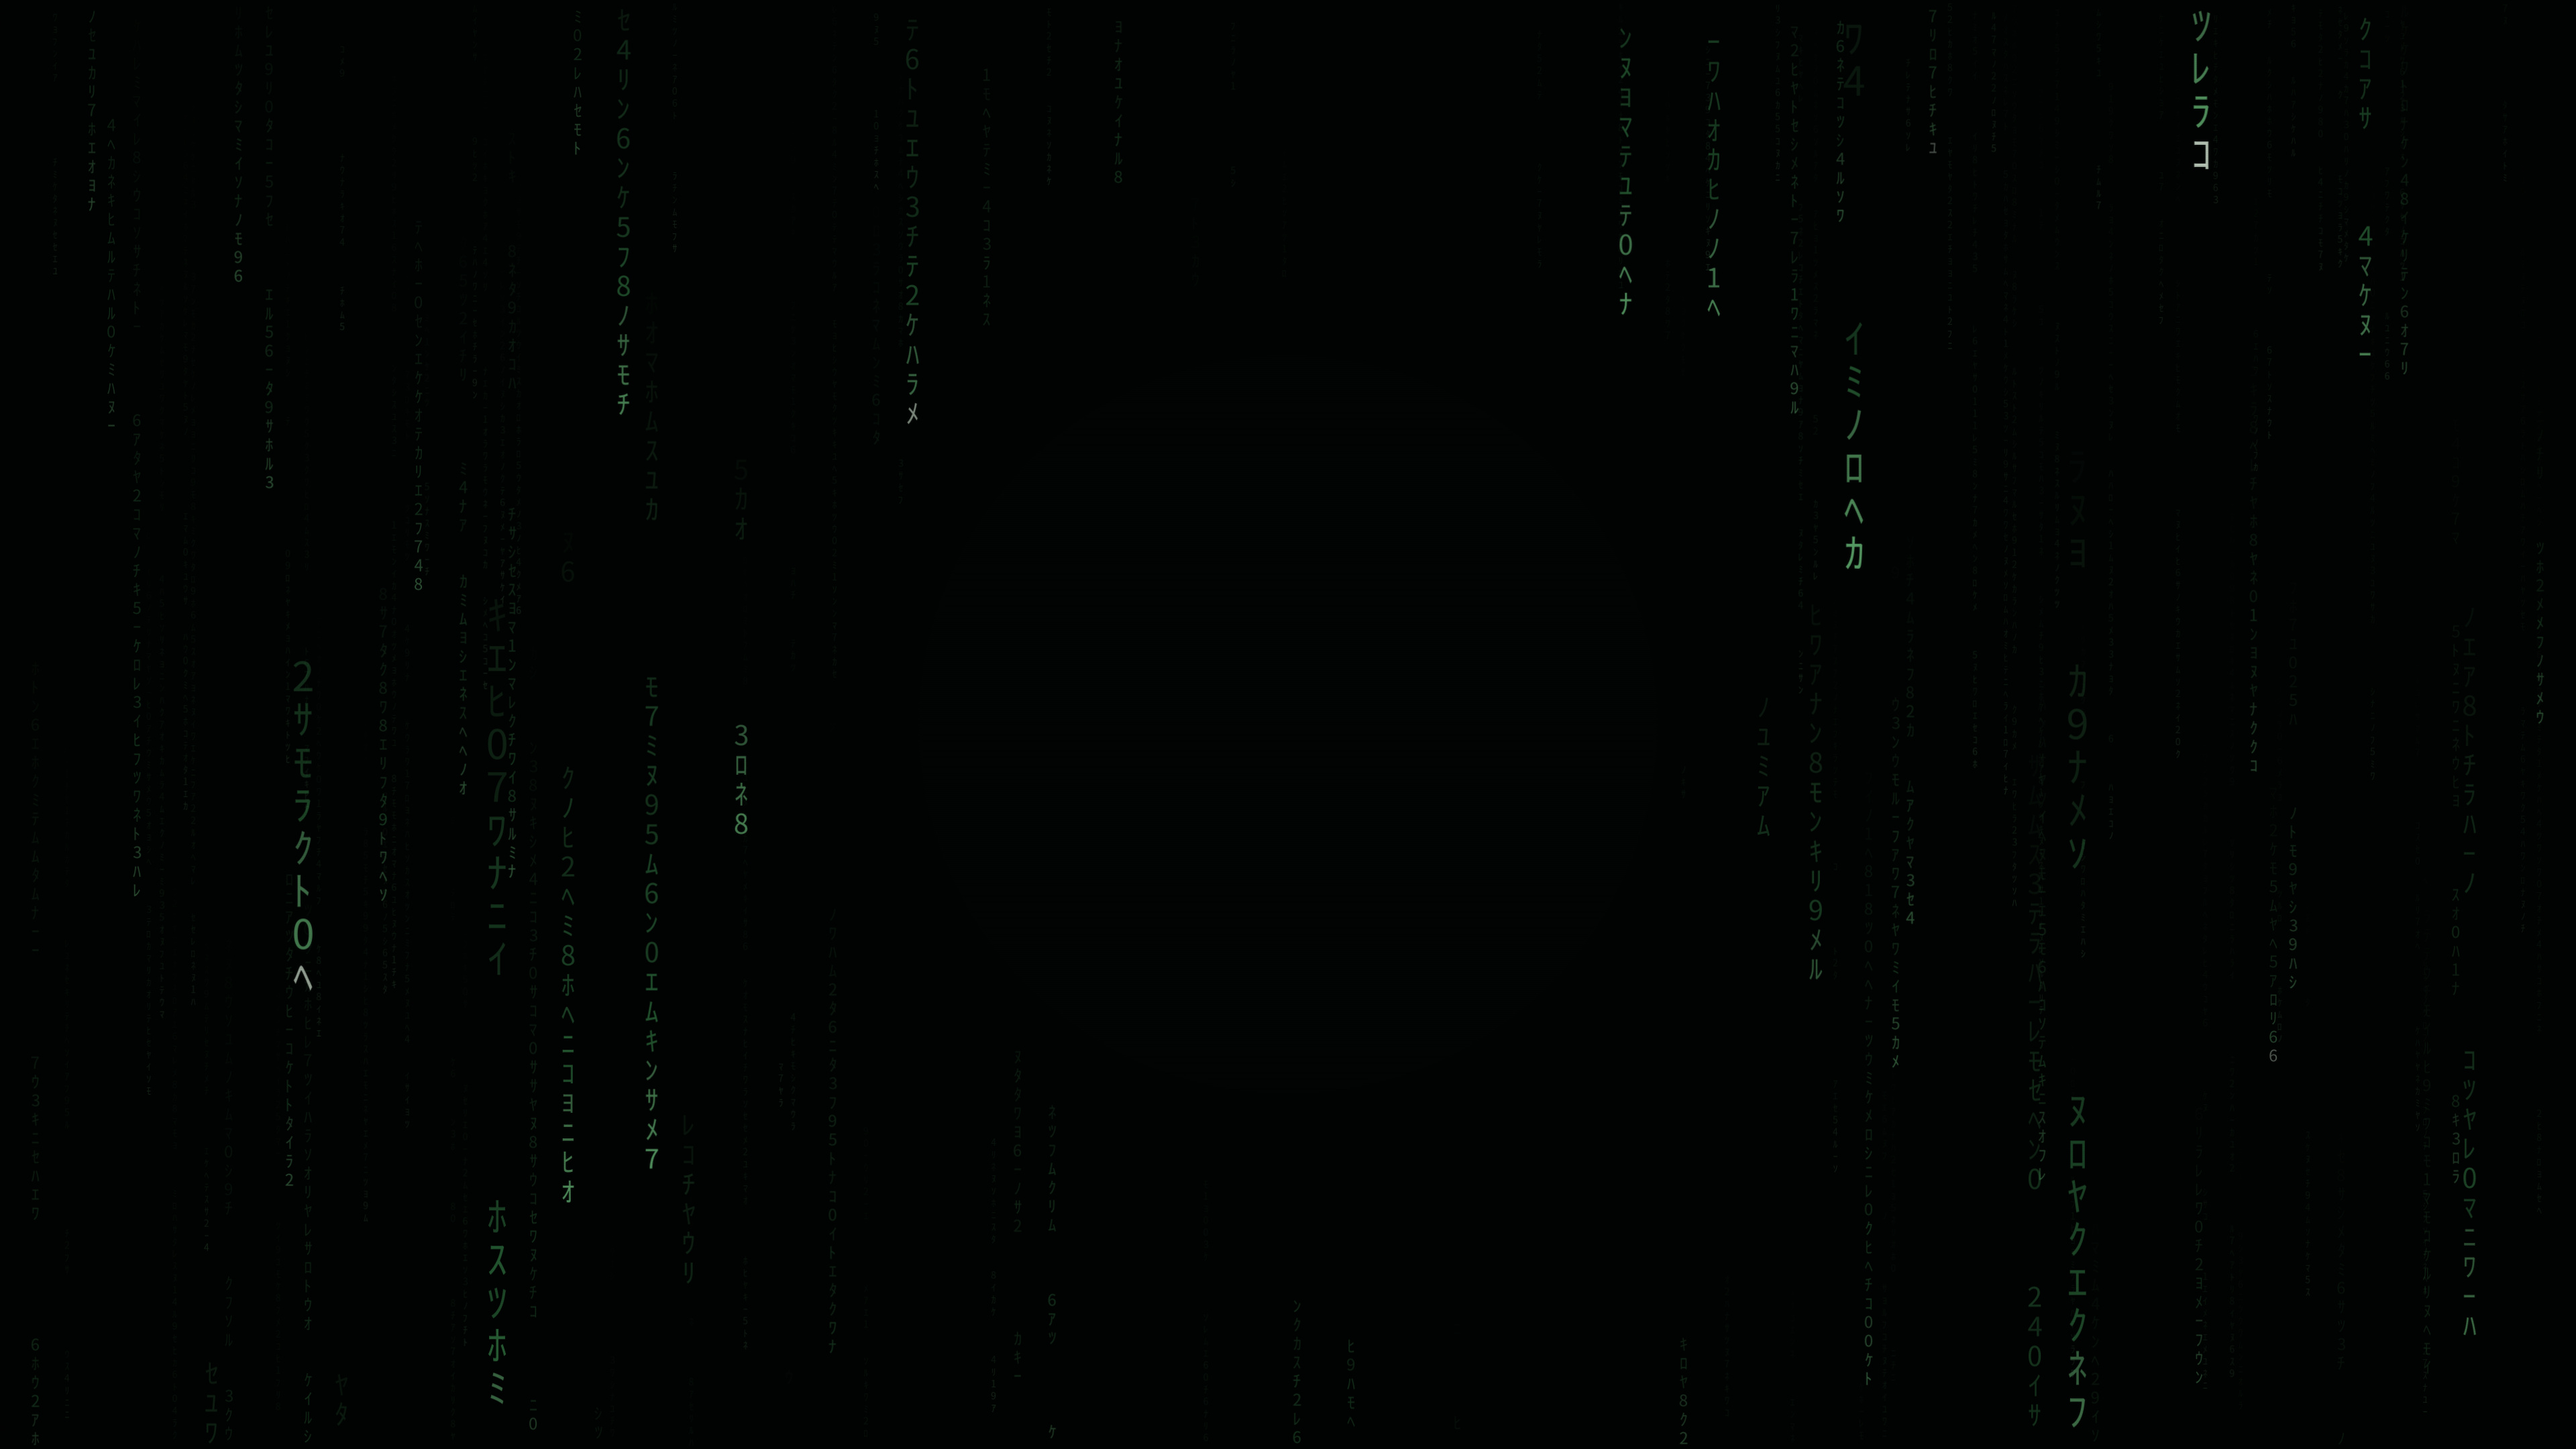
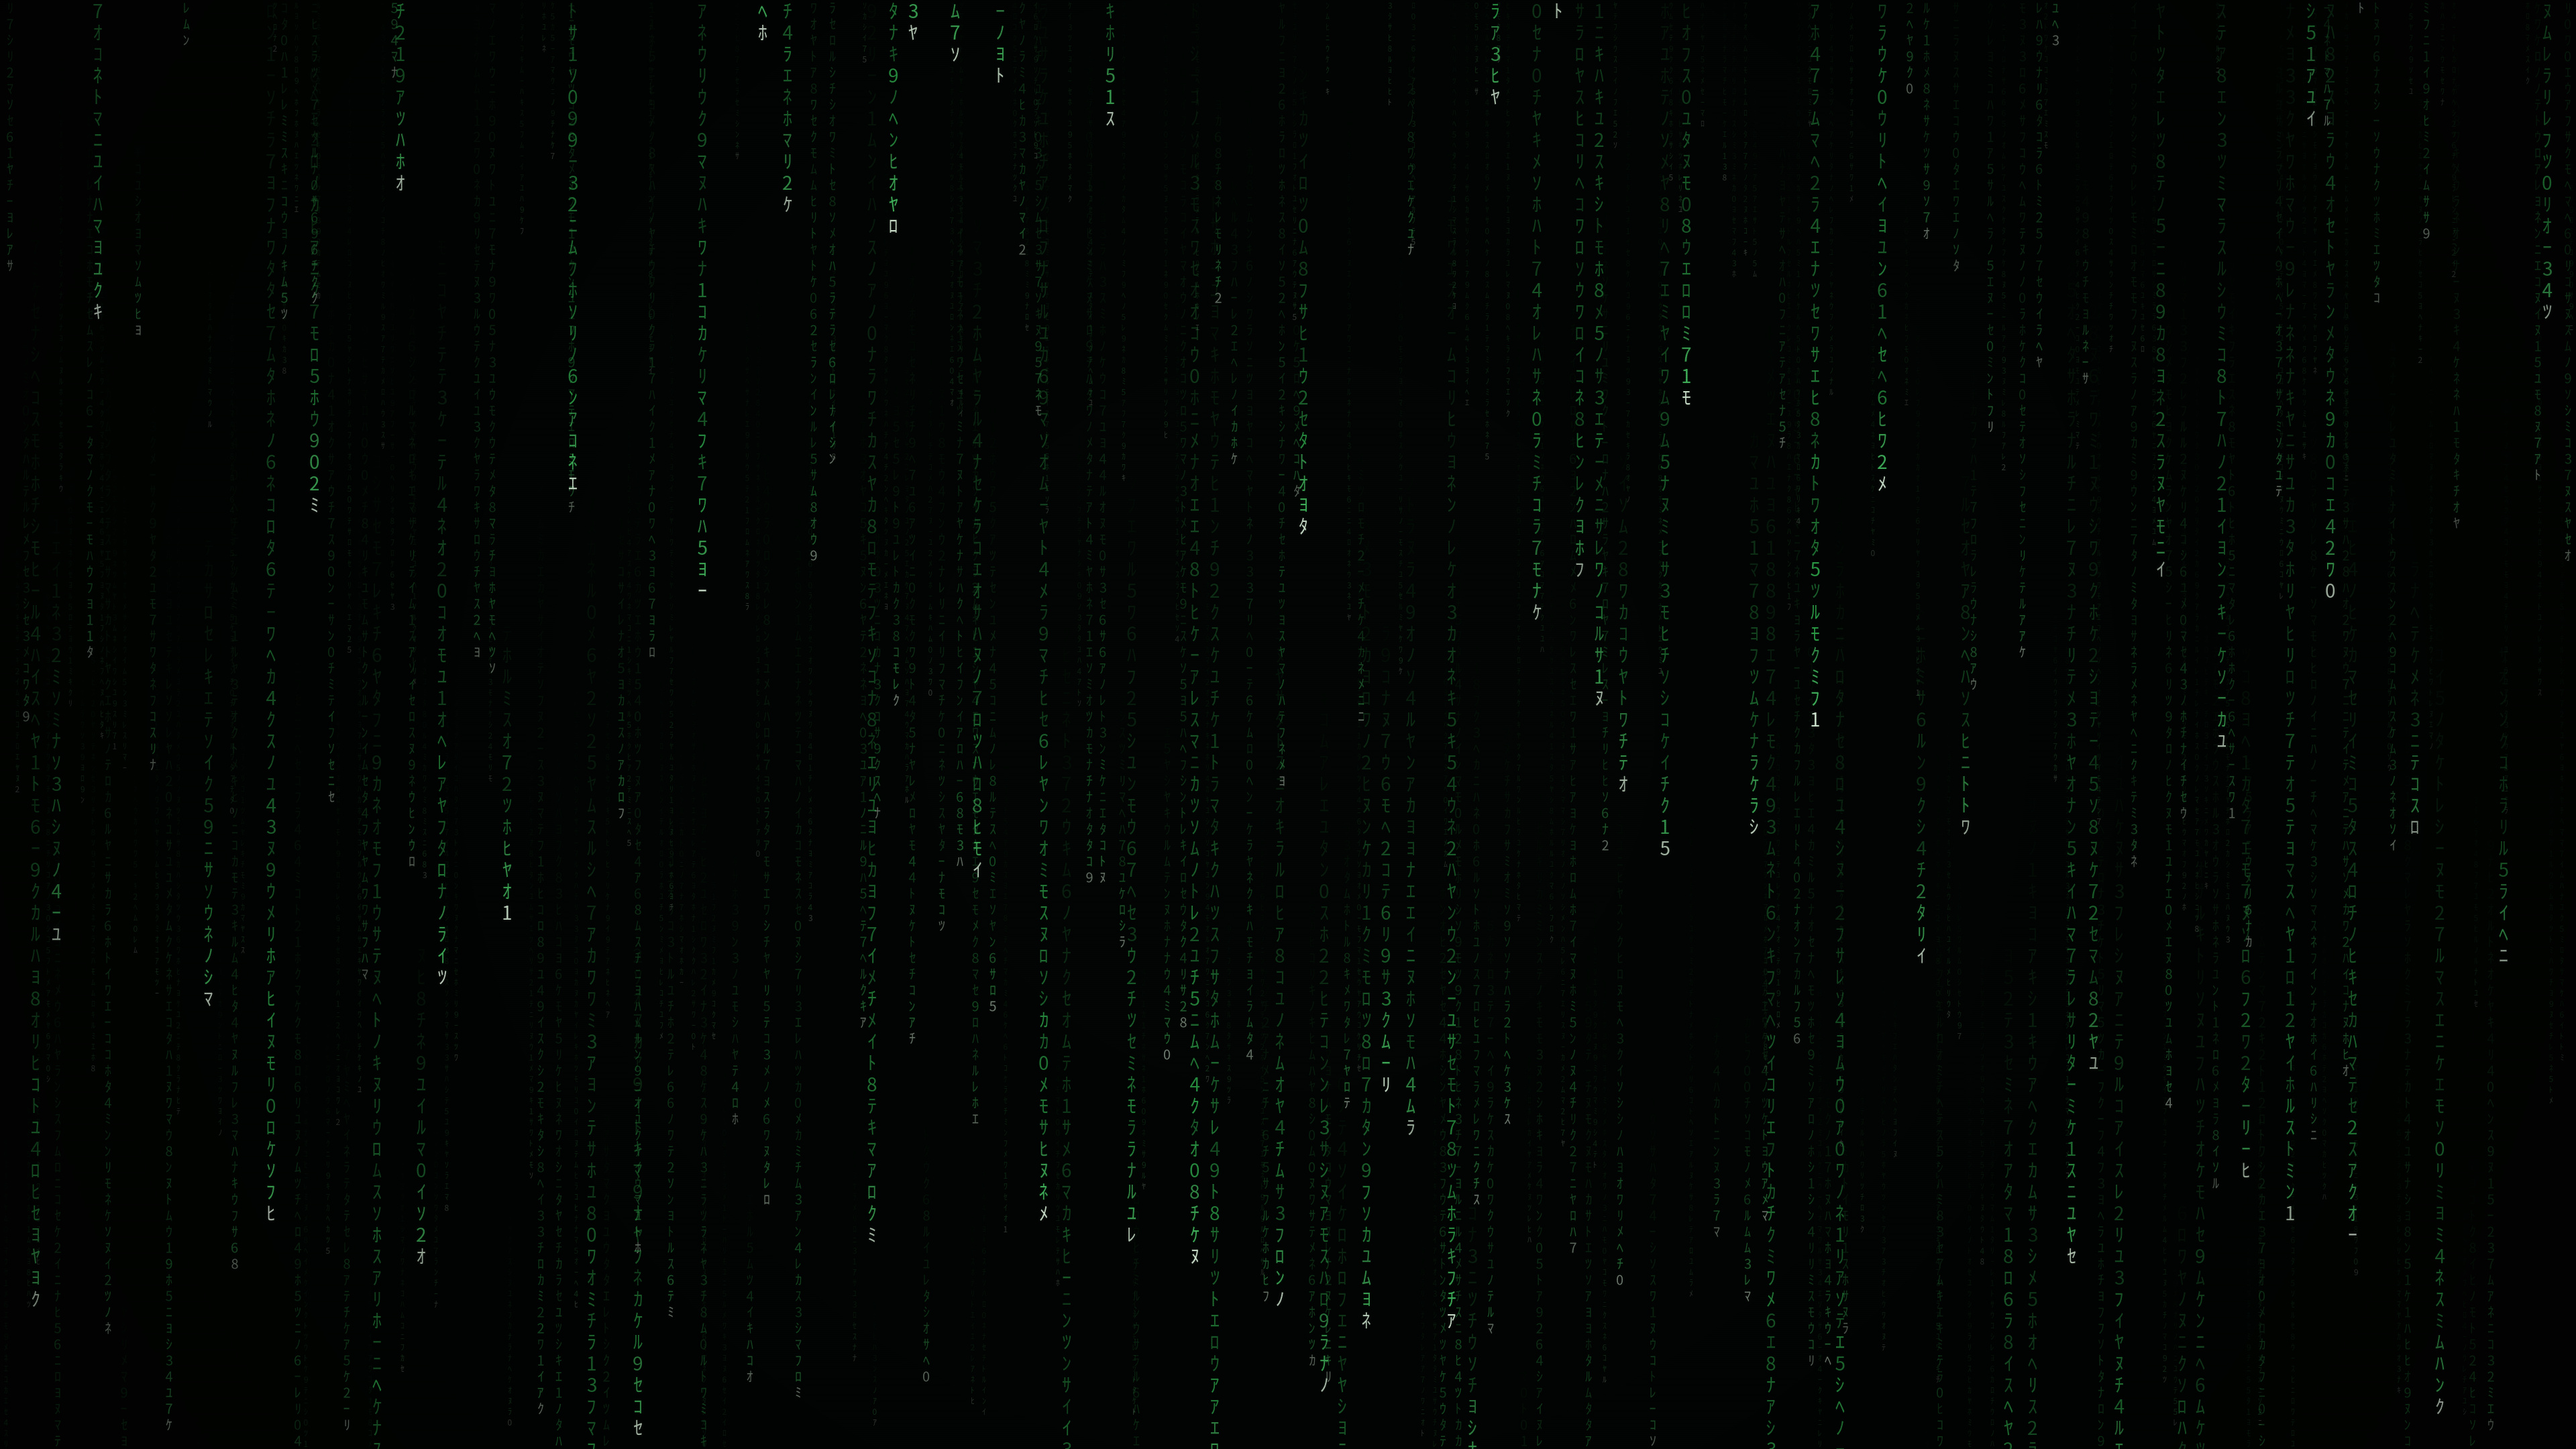
Restore the original dense code-rain compositions

Changed region(s): [[0.7812, 0.7444, 0.8125, 0.8375]]

diff --git a/README.md b/README.md
@@ -31,8 +31,8 @@ cannot update to it with a normal `git pull`. Personal backgrounds stored in
 Six JPEGs at **3840×2160**, with **Hotel Corridor** first:
 
 1. **Hotel Corridor** — worn wallpaper, timber doors, brass sconces, and a rainy end window.
-2. **Falling Code** — green glyph streams with interrupted trails and a quiet working area.
-3. **Mono Rain** — sparse silver glyph streams in an independent grayscale composition.
+2. **Falling Code** — the original dense, layered green glyph streams.
+3. **Mono Rain** — the original silver rendition of the same glyph composition.
 4. **Green Street** — an empty intersection and wet-road reflections.
 5. **The Office** — one active CRT beside a dark cubicle aisle.
 6. **After Hours** — a back-office corridor, tired fluorescents, and a partly hidden CRT.
@@ -42,15 +42,16 @@ Reapplying an active theme can advance to the next image.
 
 The four cinematic scenes are **AI-upscaled artworks**: original 1672×941 generations were processed
 with SeedVR2 at 4×, then exported from 6688×3764 masters as sRGB, quality-95
-JPEGs with 4:4:4 chroma. Falling Code and Mono Rain are rendered directly at
-native 4K from procedural glyphs. Both are included in the normal wallpaper
-cycle. The [provenance manifest](PROVENANCE.json) records hashes and sources.
+JPEGs with 4:4:4 chroma. Falling Code and Mono Rain retain their exact original
+native 4K files from before the overhaul, without regeneration or recompression.
+Both are included in the normal wallpaper cycle. The
+[provenance manifest](PROVENANCE.json) records hashes and sources.
 The desktop screenshot is a real screen capture.
 
 Optional artwork is downloaded separately from [the release](https://github.com/BVisagie/omarchy-matrix-theme/releases/tag/v1.0.0):
 
 - [6K cinematic wallpapers](https://github.com/BVisagie/omarchy-matrix-theme/releases/download/v1.0.0/matrix-wallpapers-6k.zip) — 6144×3456 companions.
-- [Code-rain companions](https://github.com/BVisagie/omarchy-matrix-theme/releases/download/v1.0.0/matrix-code-rain-4k-8k.zip) — native 8K Falling Code and Mono Rain, plus copies of the bundled 4K files.
+- [Experimental code-rain variants](https://github.com/BVisagie/omarchy-matrix-theme/releases/download/v1.0.0/matrix-code-rain-4k-8k.zip) — the later sparse redesigns at native 4K and 8K, distinct from the original compositions bundled here.
 - [Original artwork and generation records](https://github.com/BVisagie/omarchy-matrix-theme/releases/download/v1.0.0/matrix-artwork-sources.zip).
 - [SHA-256 checksums](https://github.com/BVisagie/omarchy-matrix-theme/releases/download/v1.0.0/SHA256SUMS).
 
@@ -98,8 +99,8 @@ Compatibility targets **Omarchy 4 / Quickshell**. Omarchy 3 is not covered.
 
 ## Keeping the download small
 
-The theme checkout is about **18.8 MiB**, including the full-resolution desktop
-preview and all six wallpapers. CI enforces a **20 MiB tracked-file budget**
+The theme checkout is about **20.5 MiB**, including the full-resolution desktop
+preview and all six wallpapers. CI enforces a **21 MiB tracked-file budget**
 and a **25 MiB Git pack budget**, including ordinary branches and tags.
 
 Source art, experiments, comparisons, rendering tools, and earlier Git history
